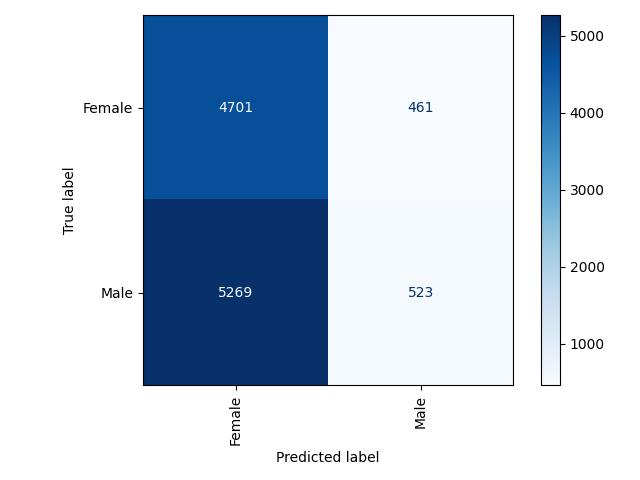
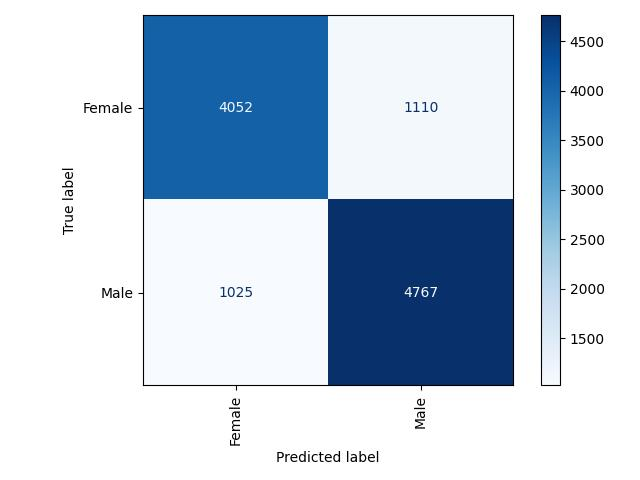
Some final changes to the code

diff --git a/main.py b/main.py
@@ -107,7 +107,7 @@ def task1(train_img, train_class, val_img, val_class, target):
     #Tensforboard callback function
     tensorboard_callback = tf.keras.callbacks.TensorBoard(log_dir=log_dir, histogram_freq=1)
 
-    model.fit(train_img, y_train, batch_size=batch_size, epochs=5, validation_data=(val_img, y_test), callbacks=[tensorboard_callback])
+    model.fit(train_img, y_train, batch_size=batch_size, epochs=50, validation_data=(val_img, y_test), )#callbacks=[tensorboard_callback])
 
     loss, acc = model.evaluate(val_img, y_test)
     y_pred = model.predict(val_img)
@@ -122,7 +122,7 @@ def task1(train_img, train_class, val_img, val_class, target):
     ConfusionMatrixDisplay.from_predictions(y_true, y_pred.col, cmap='Blues')
     plt.xticks(rotation=90)
     plt.tight_layout()
-    plt.savefig('fig.jpg')
+    plt.savefig(f'task1_{target}.jpg')
 
 def task2(train_img, train_class, val_img, val_class, target):
     if target == 'g':
@@ -172,7 +172,7 @@ def task2(train_img, train_class, val_img, val_class, target):
     # val_img =np.expand_dims(val_img, axis=(0,3))
 
     print("Running model")
-    model.fit(train_img, y_train, batch_size=batch_size, epochs=5, validation_data=(val_img, y_test), callbacks=[tensorboard_callback])
+    model.fit(train_img, y_train, batch_size=batch_size, epochs=25, validation_data=(val_img, y_test), )#callbacks=[tensorboard_callback])
 
     
 
@@ -190,7 +190,7 @@ def task2(train_img, train_class, val_img, val_class, target):
     ConfusionMatrixDisplay.from_predictions(y_true, y_pred.col, cmap='Blues')
     plt.xticks(rotation=90)
     plt.tight_layout()
-    plt.savefig('fig.jpg')
+    plt.savefig(f'task2_{target}.jpg')
 
 def task3(train_img, train_class, val_img, val_class, target):
     if target == 'g':
@@ -242,7 +242,7 @@ def task3(train_img, train_class, val_img, val_class, target):
     # val_img =np.expand_dims(val_img, axis=(0,3))
 
     print("Running model")
-    model.fit(train_img, y_train, batch_size=batch_size, epochs=5, validation_data=(val_img, y_test), callbacks=[tensorboard_callback])
+    model.fit(train_img, y_train, batch_size=batch_size, epochs=25, validation_data=(val_img, y_test), callbacks=[tensorboard_callback])
 
     
 
@@ -260,10 +260,10 @@ def task3(train_img, train_class, val_img, val_class, target):
     ConfusionMatrixDisplay.from_predictions(y_true, y_pred.col, cmap='Blues')
     plt.xticks(rotation=90)
     plt.tight_layout()
-    plt.savefig('fig.jpg')
+    plt.savefig(f'task3{target}.jpg')
 
 # train a CNN that has two branches at the end to determine two different attributes
-def task4(train_img, train_class, val_img, val_class, target):
+def task4(train_img, train_class, val_img, val_class):
 
     # let's just assume the two tasks are always gender and race
     gender_translation = gender
@@ -305,7 +305,7 @@ def task4(train_img, train_class, val_img, val_class, target):
     #Tensforboard callback function
     tensorboard_callback = tf.keras.callbacks.TensorBoard(log_dir=log_dir, histogram_freq=1)
 
-    model.fit(train_img, {'out1': y_train_gender, 'out2': y_train_race}, batch_size=batch_size, epochs=50, validation_data=(val_img, {'out1': y_test_gender, 'out2': y_test_race}), callbacks=[tensorboard_callback])
+    model.fit(train_img, {'out1': y_train_gender, 'out2': y_train_race}, batch_size=batch_size, epochs=10, validation_data=(val_img, {'out1': y_test_gender, 'out2': y_test_race}), callbacks=[tensorboard_callback])
 
     print(model.evaluate(val_img, {'out1': y_test_gender, 'out2': y_test_race}))
     loss, gender_loss, race_loss, gender_acc, race_acc = model.evaluate(val_img, {'out1': y_test_gender, 'out2': y_test_race})
@@ -401,7 +401,7 @@ def task5(train_img, val_img):
     i = 0
     for a in y_pred:
         img = np.reshape(a, (32, 32)) * 255
-        f = f'face{i}.jpg'
+        f = f'face_test{i}.jpg'
         print(img)
         cv2.imwrite(f, img)
         i += 1
@@ -410,8 +410,11 @@ def task5(train_img, val_img):
 def main():
     # do command line arguments here
     if len(sys.argv) < 3:
-        print("args: task[1/2/3/4/5] attribute[g/a/r]")
-        return
+        if len(sys.argv) == 2 and (sys.argv[1] == '4' or sys.argv[1] == '5'):
+            pass
+        else:
+            print("args: task[1/2/3/4/5] attribute[g/a/r]")
+            return
     # read in all the data we need to
     
     print("Reading csvs")
@@ -460,7 +463,7 @@ def main():
         task3(train_images, train_labels, val_images, valid_labels, target)
 
     elif(task == '4'):
-        task4(train_images, train_labels, val_images, valid_labels, target)
+        task4(train_images, train_labels, val_images, valid_labels)
 
     elif(task == '5'):
         task5(train_images, val_images)
